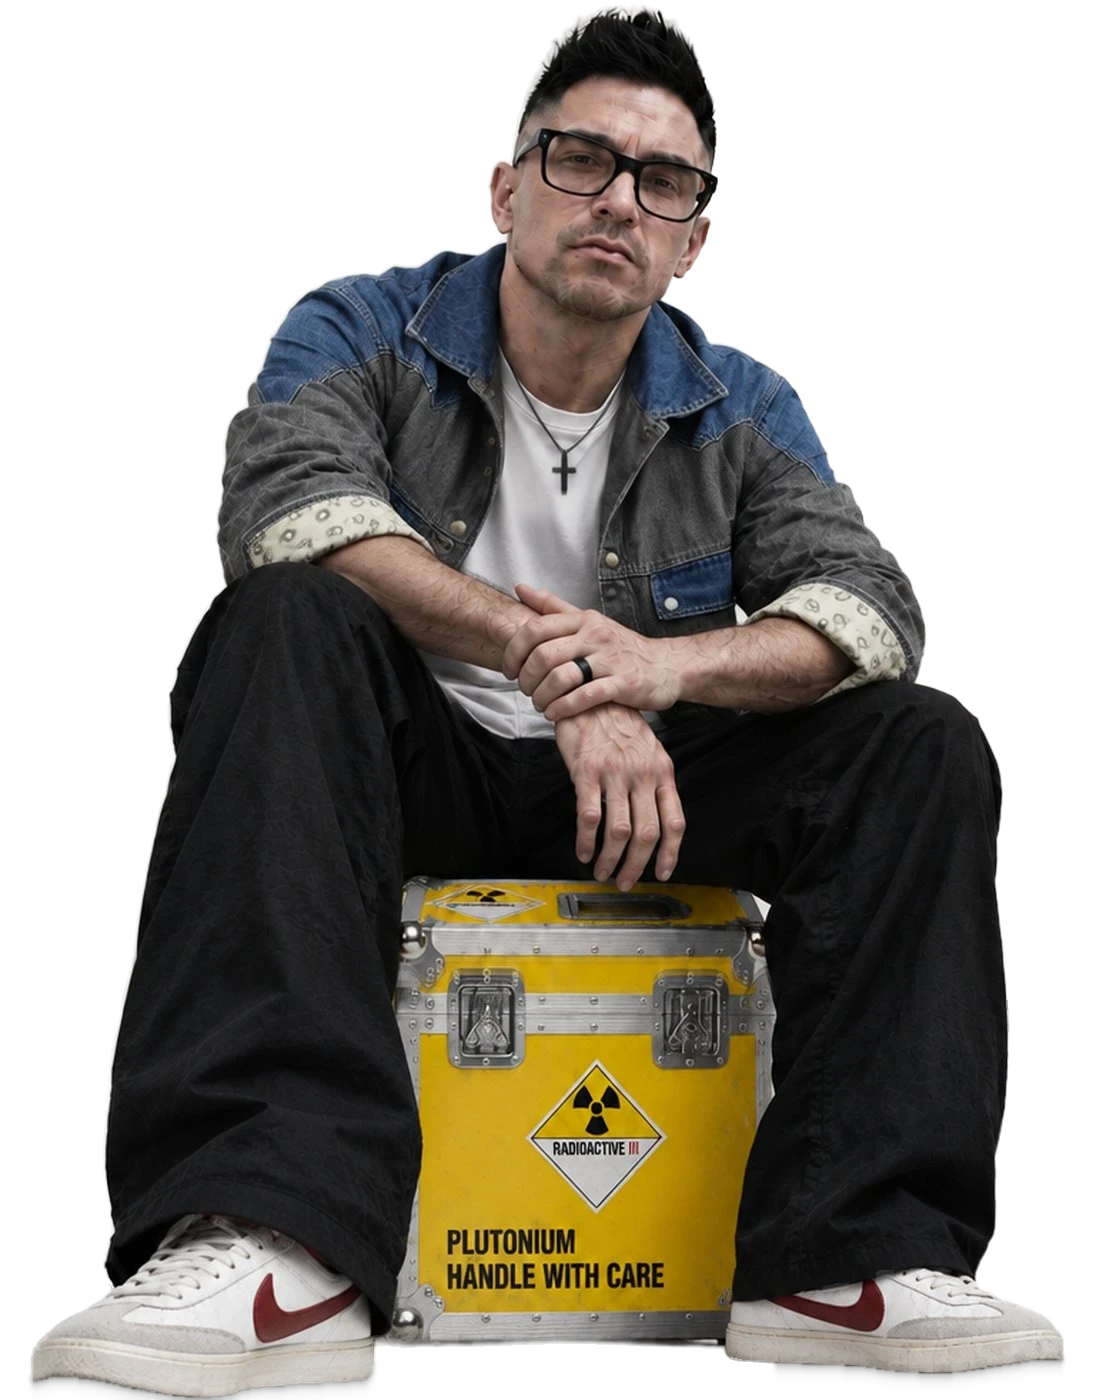
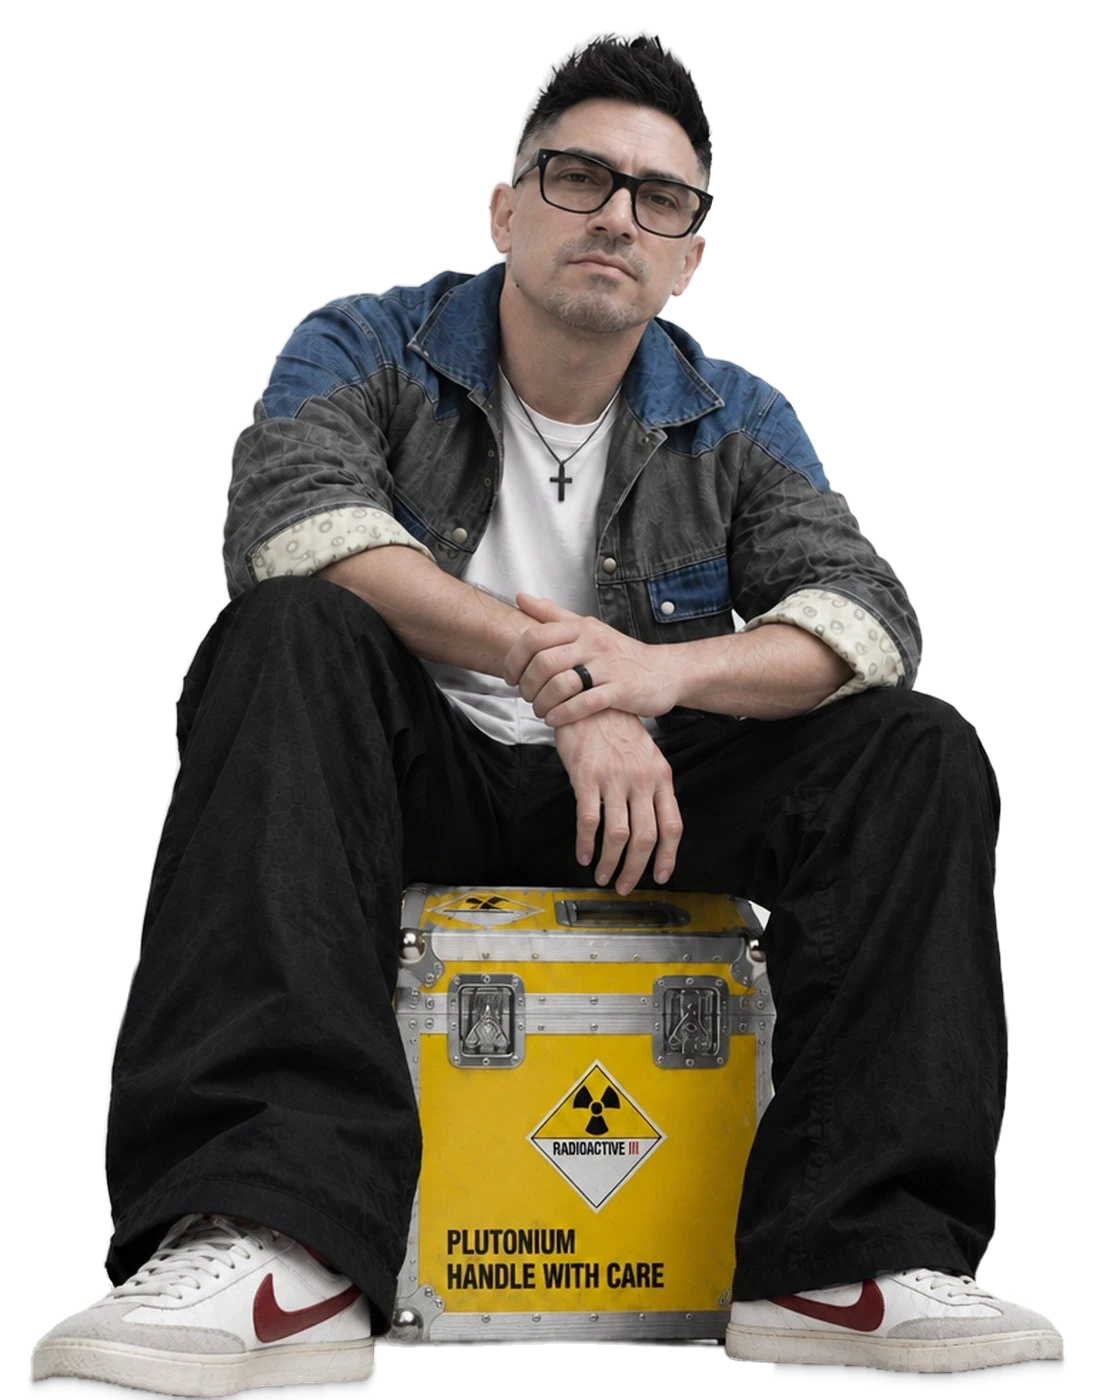
Hero: truer face (restored from the original portrait) and hairless arms
Face re-edited against the original BUILDER portrait for identity: relaxed,
neutral mouth and a natural lift. Forearms and hands hairless in the hero
and in the Doc's-lab POV. Upper body re-registered to the existing legs;
avatar hood moved 21px to stay on the head; LED re-aimed.

Claude-Session: https://claude.ai/code/session_01W5NmLrmCfpinZRZs12n3aL

diff --git a/index.html b/index.html
@@ -129,12 +129,12 @@
   .figure.suited .suit { transform: none; transition: transform .75s cubic-bezier(.25,1.35,.45,1); }
   .figure .led, .figure .led-tip { transition: opacity .3s; }
   .figure.suited .led, .figure.suited .led-tip { opacity: 0; }
-  .led { position: absolute; left: 49.6%; top: 9.65%; width: 44px; height: 44px; margin: -22px 0 0 -22px; border: 0; padding: 0; background: none; cursor: pointer; pointer-events: auto; border-radius: 50%; }
+  .led { position: absolute; left: 49.6%; top: 11.15%; width: 44px; height: 44px; margin: -22px 0 0 -22px; border: 0; padding: 0; background: none; cursor: pointer; pointer-events: auto; border-radius: 50%; }
   .led::before { content: ""; position: absolute; left: 50%; top: 50%; width: 6px; height: 6px; margin: -3px 0 0 -3px; border-radius: 50%; background: #fff; box-shadow: 0 0 6px 2px #fff, 0 0 16px 6px rgba(255,255,255,.75); animation: blink 1.6s steps(1, end) infinite; }
   .led::after { content: ""; position: absolute; inset: 8px; border-radius: 50%; border: 1px solid rgba(255,255,255,.0); transition: border-color .2s; }
   .led:hover::after, .led:focus-visible::after { border-color: rgba(255,255,255,.9); }
   .led:focus-visible { outline: none; }
-  .led-tip { position: absolute; left: calc(49.6% + 26px); top: calc(9.65% - 14px); white-space: nowrap; padding: 6px 10px; border-radius: 999px; background: var(--ink); color: #f6f5f2; font-size: 11px; letter-spacing: .08em; text-transform: uppercase; opacity: 0; transform: translateX(-6px); transition: opacity .25s, transform .25s; pointer-events: none; }
+  .led-tip { position: absolute; left: calc(49.6% + 26px); top: calc(11.15% - 14px); white-space: nowrap; padding: 6px 10px; border-radius: 999px; background: var(--ink); color: #f6f5f2; font-size: 11px; letter-spacing: .08em; text-transform: uppercase; opacity: 0; transform: translateX(-6px); transition: opacity .25s, transform .25s; pointer-events: none; }
   .led:hover + .led-tip, .led:focus-visible + .led-tip { opacity: 1; transform: none; }
   @keyframes blink { 0%, 55% { opacity: 1; } 56%, 100% { opacity: .08; } }
 

diff --git a/tastemaster.html b/tastemaster.html
@@ -129,12 +129,12 @@
   .figure.suited .suit { transform: none; transition: transform .75s cubic-bezier(.25,1.35,.45,1); }
   .figure .led, .figure .led-tip { transition: opacity .3s; }
   .figure.suited .led, .figure.suited .led-tip { opacity: 0; }
-  .led { position: absolute; left: 49.6%; top: 9.65%; width: 44px; height: 44px; margin: -22px 0 0 -22px; border: 0; padding: 0; background: none; cursor: pointer; pointer-events: auto; border-radius: 50%; }
+  .led { position: absolute; left: 49.6%; top: 11.15%; width: 44px; height: 44px; margin: -22px 0 0 -22px; border: 0; padding: 0; background: none; cursor: pointer; pointer-events: auto; border-radius: 50%; }
   .led::before { content: ""; position: absolute; left: 50%; top: 50%; width: 6px; height: 6px; margin: -3px 0 0 -3px; border-radius: 50%; background: #fff; box-shadow: 0 0 6px 2px #fff, 0 0 16px 6px rgba(255,255,255,.75); animation: blink 1.6s steps(1, end) infinite; }
   .led::after { content: ""; position: absolute; inset: 8px; border-radius: 50%; border: 1px solid rgba(255,255,255,.0); transition: border-color .2s; }
   .led:hover::after, .led:focus-visible::after { border-color: rgba(255,255,255,.9); }
   .led:focus-visible { outline: none; }
-  .led-tip { position: absolute; left: calc(49.6% + 26px); top: calc(9.65% - 14px); white-space: nowrap; padding: 6px 10px; border-radius: 999px; background: var(--ink); color: #f6f5f2; font-size: 11px; letter-spacing: .08em; text-transform: uppercase; opacity: 0; transform: translateX(-6px); transition: opacity .25s, transform .25s; pointer-events: none; }
+  .led-tip { position: absolute; left: calc(49.6% + 26px); top: calc(11.15% - 14px); white-space: nowrap; padding: 6px 10px; border-radius: 999px; background: var(--ink); color: #f6f5f2; font-size: 11px; letter-spacing: .08em; text-transform: uppercase; opacity: 0; transform: translateX(-6px); transition: opacity .25s, transform .25s; pointer-events: none; }
   .led:hover + .led-tip, .led:focus-visible + .led-tip { opacity: 1; transform: none; }
   @keyframes blink { 0%, 55% { opacity: 1; } 56%, 100% { opacity: .08; } }
 
